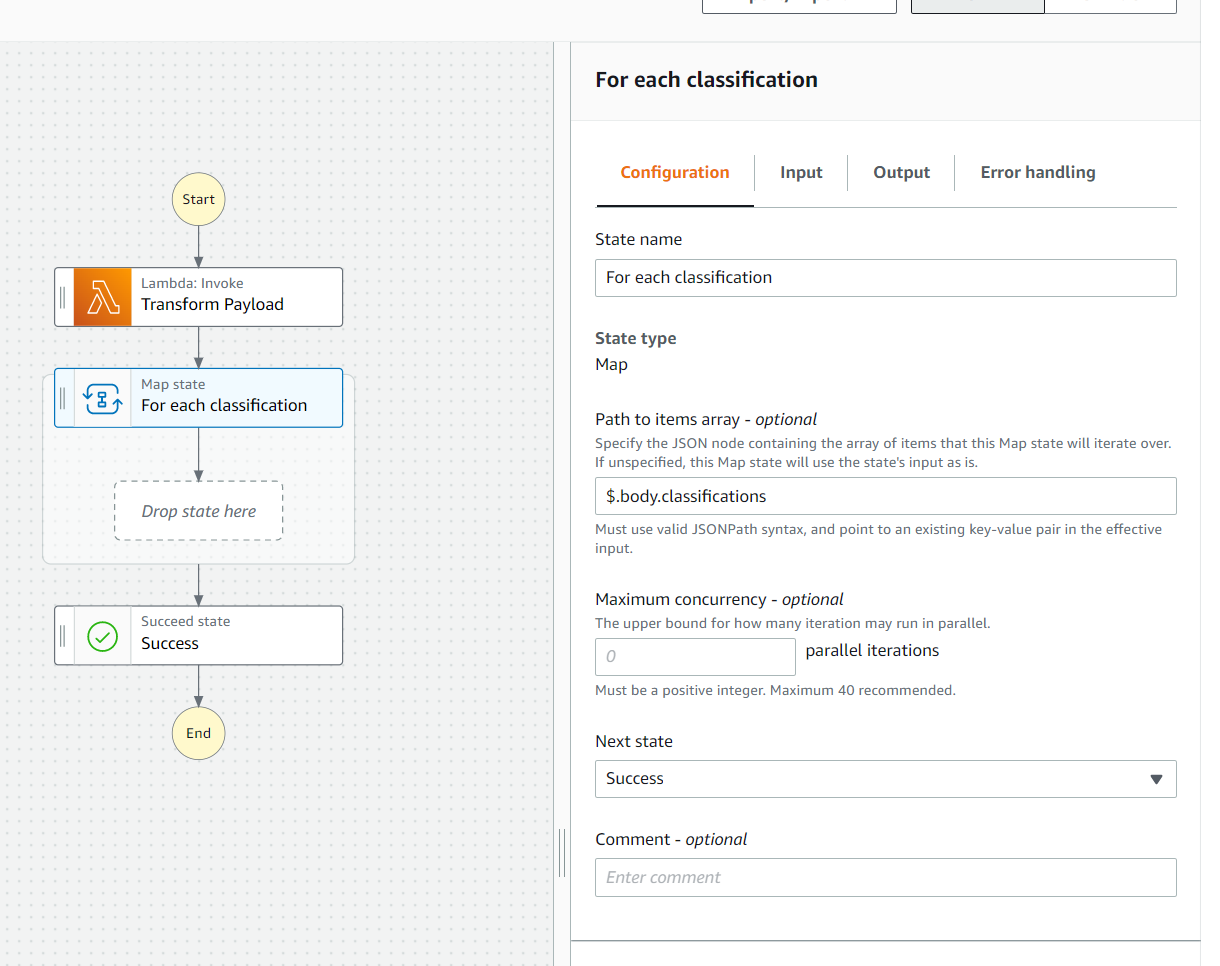
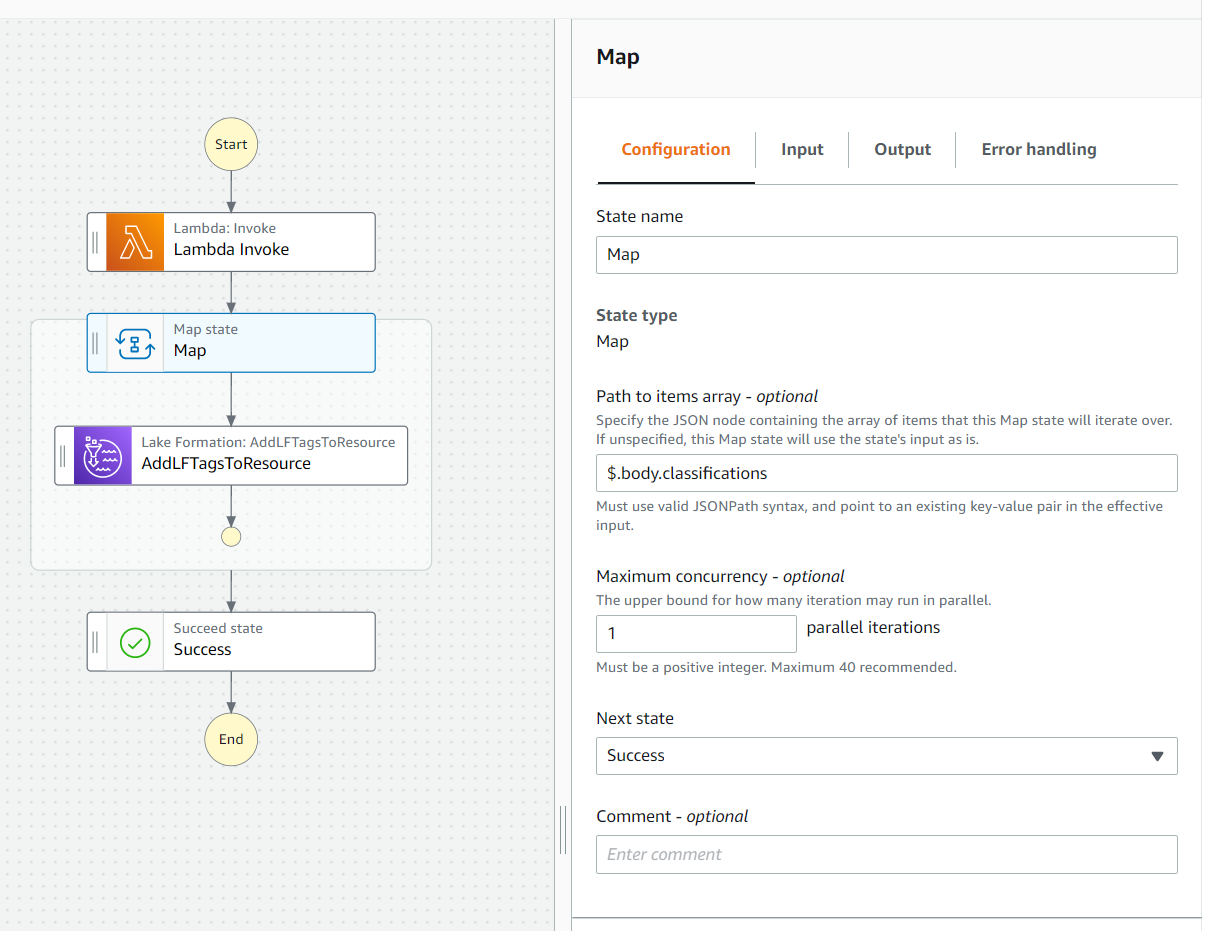
Adjusted LF permission steps

diff --git a/README.md b/README.md
@@ -146,33 +146,28 @@ In this step, we're going to configure our AWS Lake Formation LFTag ontology, se
 10. Mark the checkboxes next to "Describe" and "Associate" for both LF-tag permissions and Grantable permissions, then click "Grant".
 ![](/images/lakeformation/tag-stepfunction-permissions.PNG)
 11. Next, click on "Data lake permissions" in the navigation panel and click "Grant". 
-12. For "Principals", under "IAM users and roles", select the "macielflab-StepFunctionExecutionRole" role.
-![](/images/lakeformation/grant-stepfunction-principal.PNG)
-13. For "LF-Tags or catalog resournces", leave "Resources matched by LF-Tags" selected, then click "Add LF-Tag". Select "Classification" as the "Key" and both "PERSONAL_INFORMATION" and "FINANCIAL_INFORMATION" as the "Values".
-![](/images/lakeformation/grant-stepfunction-tags.PNG)
-14. Leave all checkboxes empty for "Database permissions". For "Table permissions", mark the checkboxes for "Select", "Describe" and "Alter", then click Grant.
-![](/images/lakeformation/grant-stepfunction-permissions.PNG)
-15. Remaining in the "Data lake permissions" page, click "Grant". 
-16. For "Principals", under "IAM users and roles", select the "macielflab-StepFunctionExecutionRole" role.
+12. Remaining in the "Data lake permissions" page, click "Grant". 
+13. For "Principals", under "IAM users and roles", select the "macielflab-StepFunctionExecutionRole" role.
 ![](/images/lakeformation/grant-stepfunction-principal-2.PNG)
-17. For "LF-Tags or catalog resources", select "Named data catalog resources"
-18. In the "Databases" dropdown, select "customer".
-19. In the "Tables" dropdown, select "customers".
+14. For "LF-Tags or catalog resources", select "Named data catalog resources"
+15. In the "Databases" dropdown, select "customer".
+16. In the "Tables" dropdown, select "customers".
 ![](/images/lakeformation/grant-stepfunction-resources.PNG)
-20. Under "Table permissions", mark the checkboxes next to "Super" for both "Table" permissions and "Grantable" permissions.
+17. Under "Table permissions", mark the checkboxes next to "Super" for both "Table" permissions and "Grantable" permissions.
+
 ![](/images/lakeformation/grant-stepfunction-tags-2.PNG)
-21. Remaining in the "Data lake permissions" page, click "Grant".
-22. For "Principals", under "IAM users and roles",select the role or user you are using to complete these labs.
-23. For "LF-Tags or catalog resournces", leave "Resources matched by LF-Tags" selected, then click "Add LF-Tag". Select "Classification" as the "Key" and "UNCLASSIFIED" only as the "Values".
+18. Remaining in the "Data lake permissions" page, click "Grant".
+19. For "Principals", under "IAM users and roles",select the role or user you are using to complete these labs.
+20. For "LF-Tags or catalog resournces", leave "Resources matched by LF-Tags" selected, then click "Add LF-Tag". Select "Classification" as the "Key" and "UNCLASSIFIED" only as the "Values".
 ![](/images/lakeformation/grant-user-tags.PNG)
-24. Under "Database permissions", mark the checkbox next to "Describe".
-25. Under "Table permissions", mark the checkbox for "Select" and "Describe". This will grant your current user permission to view and run select statements for any table with tag "Classification=UNCLASSIFIED". 
+21. Under "Database permissions", mark the checkbox next to "Describe".
+22. Under "Table permissions", mark the checkbox for "Select" and "Describe". This will grant your current user permission to view and run select statements for any table with tag "Classification=UNCLASSIFIED". 
 ![](/images/lakeformation/grant-user-permissions.PNG)
 
 The final step in this section is allocate "Classification=UNCLASSIFIED" to the database. Table and column resources in this database will inherit this tag value. 
-26. Click on "Database" in the navigation panel, then click on the "customer" database.
-27. Click "Edit LF-tags, then click "Assign new LF-Tag".
-28. For "Assigned keys", select "Classification". For values, select "UNCLASSIFIED" only. Click Save.
+23. Click on "Database" in the navigation panel, then click on the "customer" database.
+24. Click "Edit LF-tags, then click "Assign new LF-Tag".
+25. For "Assigned keys", select "Classification". For values, select "UNCLASSIFIED" only. Click Save.
 ![](/images/athena/managesettings.PNG)
 
 ## Step 5 - Validate permissions with Amazon Athena
@@ -211,6 +206,8 @@ As you can see, the dataset includes some data that is potentially PII or sensit
 11. With the "Map" state selected, enter "For each classification" as the "State name".
 
 12. For "Path to items array", enter "$.body.classifications".
+
+13. For "Maximum concurrency", enter "1".
 
 ![](/images/stepfunctions/action-foreach.PNG)
 
